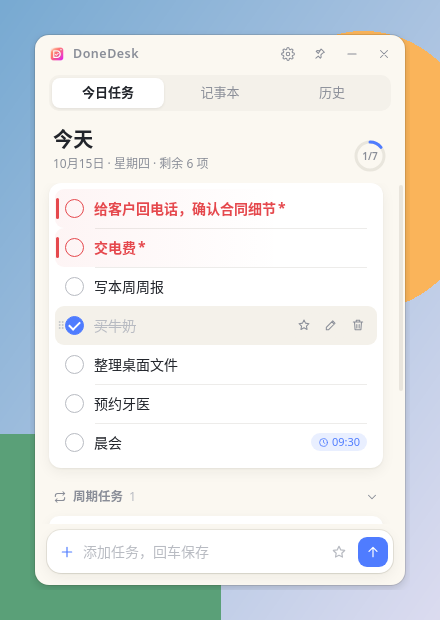
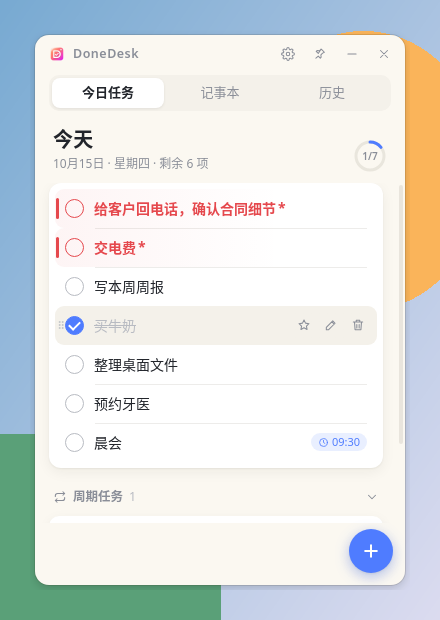
docs: v1.1.3 — password fix, recur +, collapsible add bar, fonts

Changed region(s): [[0.7682, 0.8274, 0.9159, 0.95], [0.3545, 0.8581, 0.4727, 0.9194], [0.2068, 0.8581, 0.325, 0.9194]]

diff --git a/README.en.md b/README.en.md
@@ -7,7 +7,7 @@
   <img src="https://img.shields.io/badge/platform-Windows%2010%20%7C%2011-0078D6?style=flat-square&logo=windows" alt="platform">
   <img src="https://img.shields.io/badge/Electron-desktop-47848F?style=flat-square&logo=electron&logoColor=white" alt="electron">
   <p><a href="README.md">中文</a> | <b>English</b></p>
-  <p><a href="https://github.com/gu-success/donedesk/releases/download/v1.1.2/DoneDesk-Setup-1.1.2.exe"><b>⬇ Download for Windows (v1.1.2)</b></a></p>
+  <p><a href="https://github.com/gu-success/donedesk/releases/download/v1.1.3/DoneDesk-Setup-1.1.3.exe"><b>⬇ Download for Windows (v1.1.3)</b></a></p>
   <img src="docs/images/hero.png" width="760" alt="DoneDesk light and dark themes">
 </div>
 
@@ -15,7 +15,11 @@
 
 ## ✨ Features
 
-- 🕘 **History** — browse past days (newest first): completed tasks struck through, unfinished / carried-over ones marked; search, date picker and prev/next day; restore any task to today. (v1.1.2)
+- ✏ **Password change fixed** — change while unlocked or by entering the current password; confirm the new one and get a clear success message. (v1.1.3)
+- 🔁 **Recurring via the + button** — tap + in the add bar to set daily/weekly/monthly + time, then submit; the star still marks urgent. (v1.1.3)
+- ➕ **Collapsible add bar** — shrinks to a round + on the right when idle; click to expand, click outside or Esc to collapse. (v1.1.3)
+- 🔤 **UI font picker** — System / Segoe UI / Microsoft YaHei / PingFang / Noto / Inter / monospace. (v1.1.3)
+- 🕘 **History** — browse past days (newest first): completed tasks struck through, unfinished / carried-over ones marked; search, date picker and prev/next day; restore any task to today. (v1.1.3)
 - 🌐 **English & Chinese UI** — switch in Settings; follows your system language by default. (v1.1)
 - 🫧 **Window opacity** — 30%–100%, applied live; the background turns translucent while text stays crisp. (v1.1)
 - 🟦 **Rounded window** — new rounded frameless look with a subtle border and shadow; resize from any edge. (v1.1)
@@ -43,6 +47,11 @@
 | <img src="docs/images/en-light-settings.png" width="300"> | <img src="docs/images/en-dark-settings.png" width="300"> |
 | **55% opacity (light)** | **55% opacity (dark)** |
 | <img src="docs/images/zh-light-opacity55.png" width="300"> | <img src="docs/images/zh-dark-opacity55.png" width="300"> |
+| **Collapsed add bar** | **Recurrence popover** |
+|:---:|:---:|
+| <img src="docs/images/en-light-add-collapsed.png" width="300"> | <img src="docs/images/en-light-recur-pop.png" width="300"> |
+| **Recurrence armed** | **Password changed** |
+| <img src="docs/images/en-light-recur-armed.png" width="300"> | <img src="docs/images/en-light-password-changed.png" width="300"> |
 | **History (light)** | **History (dark)** |
 | <img src="docs/images/en-light-history.png" width="300"> | <img src="docs/images/en-dark-history.png" width="300"> |
 | **Dragging a task** | **Chinese UI** |
@@ -54,7 +63,7 @@
 
 ## 📥 Download & Install
 
-1. Go to [Releases](https://github.com/gu-success/donedesk/releases/latest) or download **[DoneDesk-Setup-1.1.2.exe](https://github.com/gu-success/donedesk/releases/download/v1.1.2/DoneDesk-Setup-1.1.2.exe)** directly.
+1. Go to [Releases](https://github.com/gu-success/donedesk/releases/latest) or download **[DoneDesk-Setup-1.1.3.exe](https://github.com/gu-success/donedesk/releases/download/v1.1.3/DoneDesk-Setup-1.1.3.exe)** directly.
 2. Run the installer.
 3. Requirements: **Windows 10 / 11 (x64)**.
 

diff --git a/README.md b/README.md
@@ -7,12 +7,16 @@
   <img src="https://img.shields.io/badge/platform-Windows%2010%20%7C%2011-0078D6?style=flat-square&logo=windows" alt="platform">
   <img src="https://img.shields.io/badge/Electron-desktop-47848F?style=flat-square&logo=electron&logoColor=white" alt="electron">
   <p><b>中文</b> | <a href="README.en.md">English</a></p>
-  <p><a href="https://github.com/gu-success/donedesk/releases/download/v1.1.2/DoneDesk-Setup-1.1.2.exe"><b>⬇ 下载 Windows 安装包 (v1.1.2)</b></a></p>
+  <p><a href="https://github.com/gu-success/donedesk/releases/download/v1.1.3/DoneDesk-Setup-1.1.3.exe"><b>⬇ 下载 Windows 安装包 (v1.1.3)</b></a></p>
   <img src="docs/images/hero.png" width="760" alt="DoneDesk 浅色、深色与半透明">
 </div>
 
 ## ✨ 功能特性
 
+- ✏ **改密已修复**：解锁后或直接输入当前密码即可修改；需确认新密码，成功有明确提示。（v1.1.3）
+- 🔁 **底部「+」设周期**：点输入栏左侧 + 弹出周期选项（每天/每周/每月+时间），提交即创建周期任务；星标仍表示紧急。（v1.1.3）
+- ➕ **折叠输入栏**：空闲时收成右侧圆形 +，点击展开；点外部或 Esc 收回。（v1.1.3）
+- 🔤 **界面字体可选**：设置中切换系统默认 / Segoe UI / 微软雅黑 / 苹方 / Noto / Inter / 等宽。（v1.1.3）
 - 🕘 **历史记录** —— 按日期查看过去的任务（新→旧），已完成划线、未完成结转有标记；支持搜索、日期选择与前后翻页，可一键恢复到今天。（v1.1.2）
 - 🌐 **中英双语** —— 设置中一键切换中文 / English，默认跟随系统语言。（v1.1）
 - 🫧 **窗口不透明度** —— 30%–100% 实时调节，背景半透明、文字依然清晰。（v1.1）
@@ -41,6 +45,11 @@
 | <img src="docs/images/zh-light-settings.png" width="300"> | <img src="docs/images/en-dark-settings.png" width="300"> |
 | **不透明度 55%（浅色）** | **不透明度 55%（深色）** |
 | <img src="docs/images/zh-light-opacity55.png" width="300"> | <img src="docs/images/zh-dark-opacity55.png" width="300"> |
+| **折叠输入栏** | **周期弹出** |
+|:---:|:---:|
+| <img src="docs/images/en-light-add-collapsed.png" width="300"> | <img src="docs/images/en-light-recur-pop.png" width="300"> |
+| **周期已启用** | **修改密码成功** |
+| <img src="docs/images/en-light-recur-armed.png" width="300"> | <img src="docs/images/en-light-password-changed.png" width="300"> |
 | **历史记录（浅色）** | **历史记录（深色）** |
 | <img src="docs/images/en-light-history.png" width="300"> | <img src="docs/images/en-dark-history.png" width="300"> |
 | **拖拽排序中** | **English UI** |
@@ -52,7 +61,7 @@
 
 ## 📥 下载安装
 
-1. 前往 [Releases](https://github.com/gu-success/donedesk/releases/latest) 或直接下载 **[DoneDesk-Setup-1.1.2.exe](https://github.com/gu-success/donedesk/releases/download/v1.1.2/DoneDesk-Setup-1.1.2.exe)**。
+1. 前往 [Releases](https://github.com/gu-success/donedesk/releases/latest) 或直接下载 **[DoneDesk-Setup-1.1.3.exe](https://github.com/gu-success/donedesk/releases/download/v1.1.3/DoneDesk-Setup-1.1.3.exe)**。
 2. 双击运行安装程序。
 3. 系统要求：**Windows 10 / 11（64 位）**。
 
